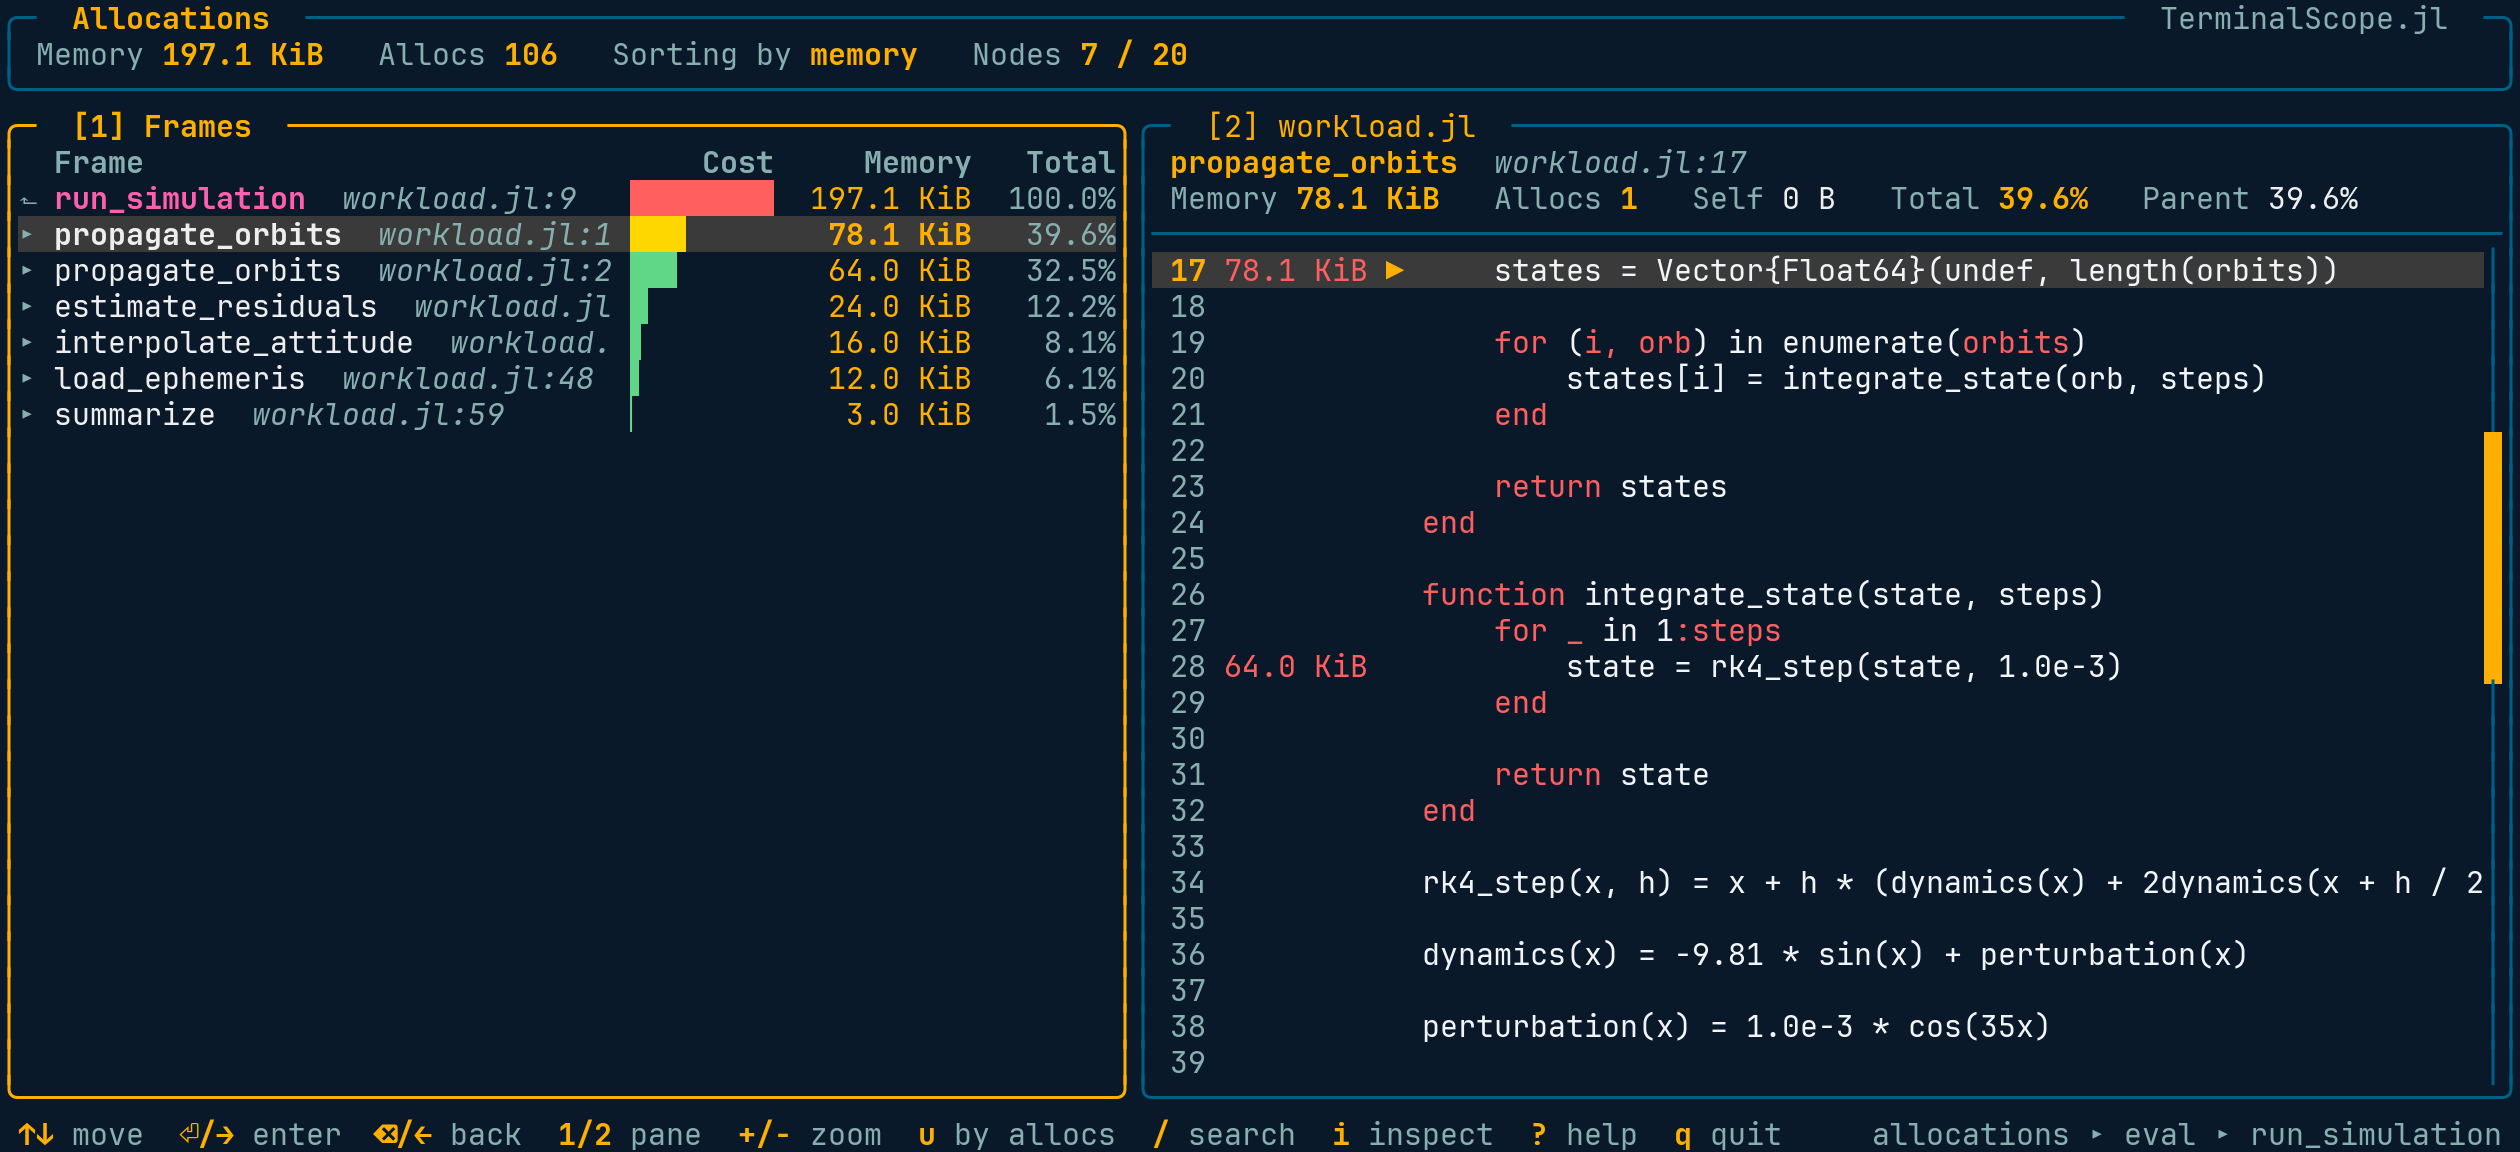
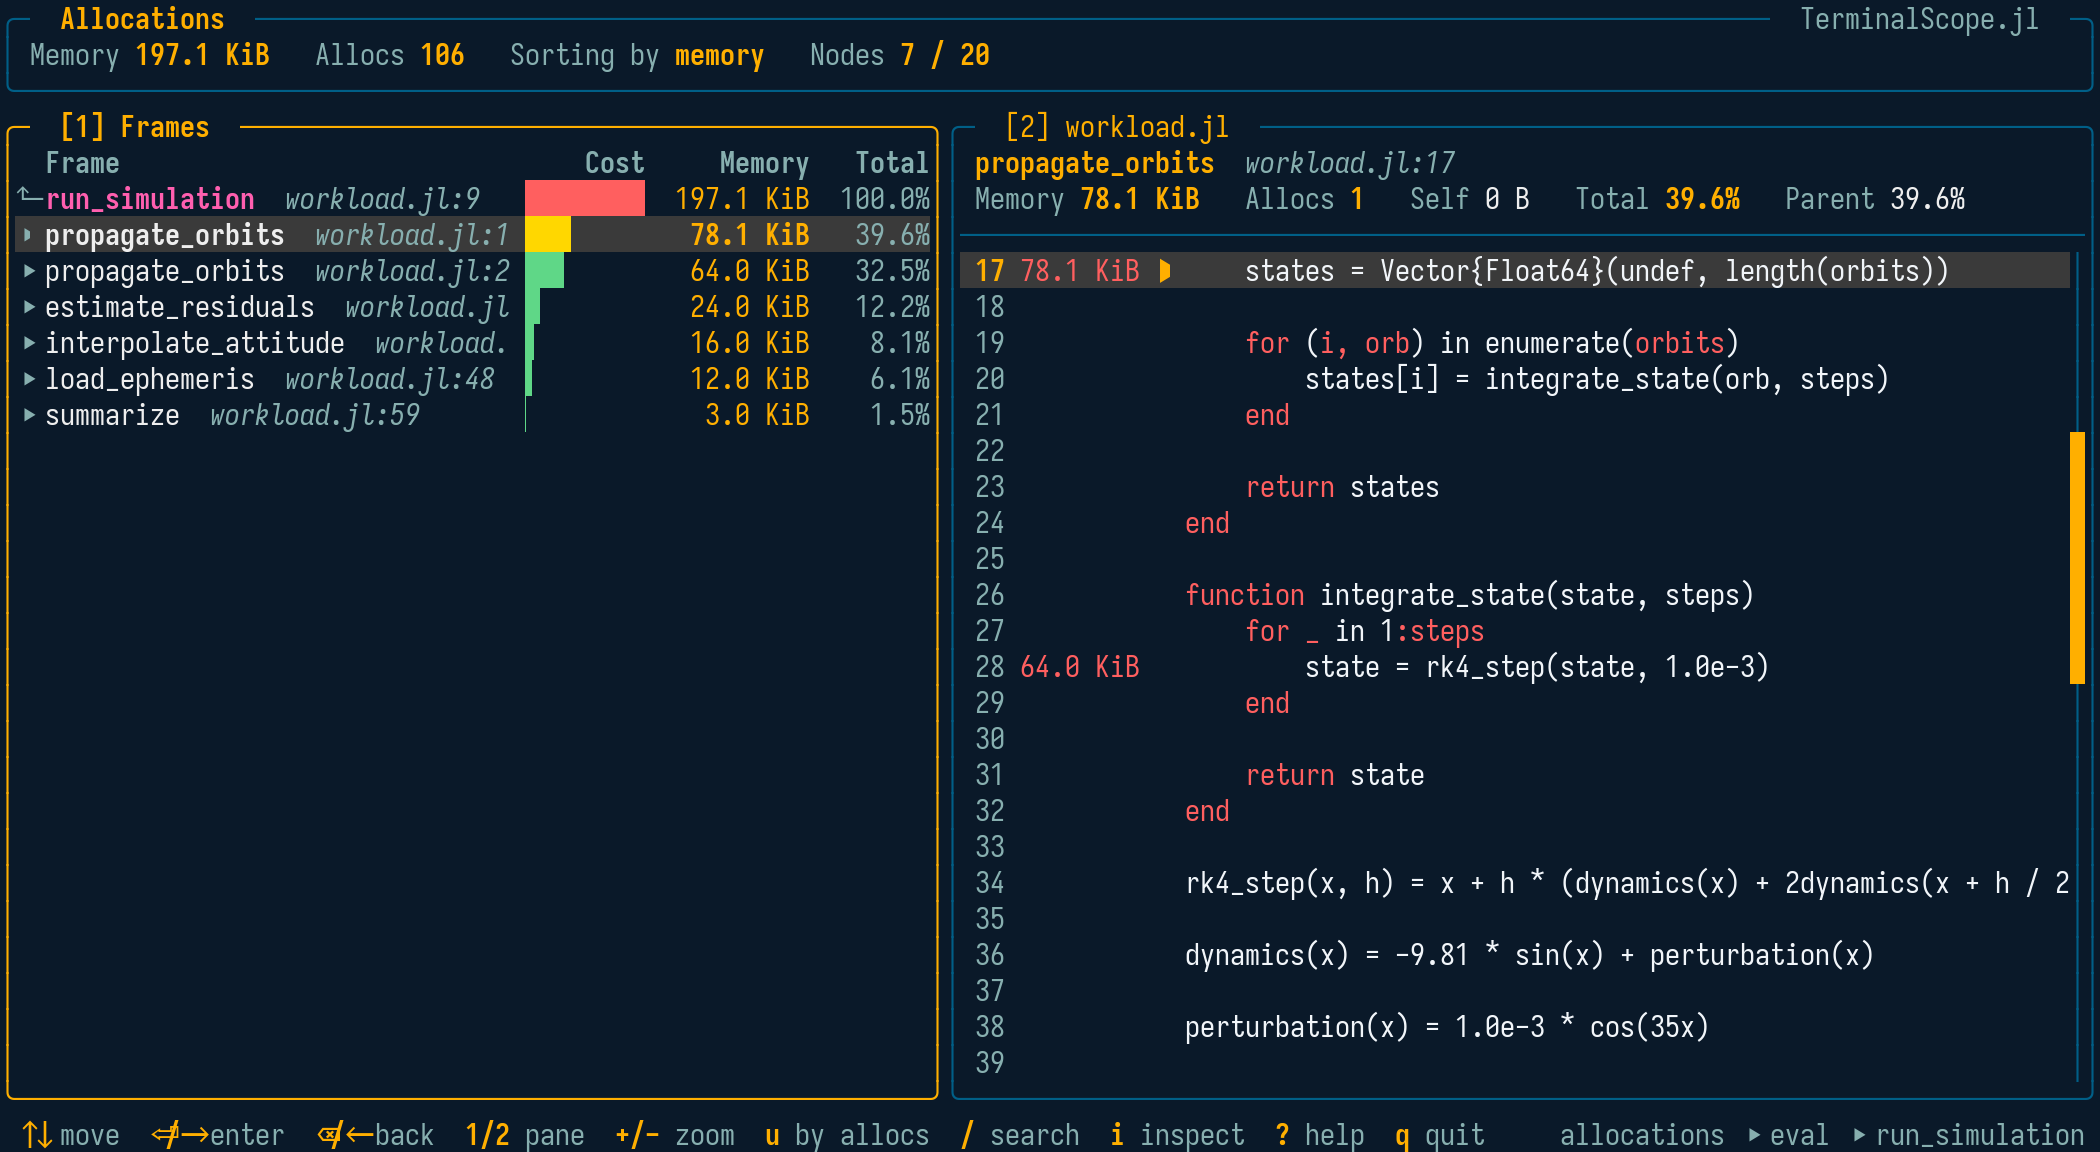
:books: Use Iosevka as the screenshot font
Prefer Iosevka when rasterizing the documentation screenshots. The
default Iosevka distribution is a TrueType super collection whose
first face is the Thin weight, which the glyph cache cannot use, so
the generation script now extracts the Regular, Bold, Italic, and
Bold Italic faces of the default variant with fontTools into a
git-ignored fonts directory on the first run. The candidate list
carries a per-font cell width, since Iosevka advances 0.5 em where
the fallback fonts advance 0.6 em.

diff --git a/docs/screenshots/extract_iosevka.py b/docs/screenshots/extract_iosevka.py
@@ -1,0 +1,40 @@
+## Description #############################################################################
+#
+# Extract the Regular, Bold, Italic, and Bold Italic faces of the default Iosevka
+# variant from a TrueType collection, so the screenshot rasterizer can load them:
+#
+#     python3 extract_iosevka.py <Iosevka.ttc> <output directory>
+#
+# Requires fontTools (https://github.com/fonttools/fonttools).
+#
+############################################################################################
+
+import os
+import sys
+
+from fontTools.ttLib import TTCollection
+
+src, out_dir = sys.argv[1], sys.argv[2]
+
+wanted = {
+    "Iosevka": "Iosevka-Regular.ttf",
+    "Iosevka Bold": "Iosevka-Bold.ttf",
+    "Iosevka Italic": "Iosevka-Italic.ttf",
+    "Iosevka Bold Italic": "Iosevka-BoldItalic.ttf",
+}
+
+collection = TTCollection(src, lazy=True)
+
+for font in collection.fonts:
+    full_name = font["name"].getDebugName(4)
+    target = wanted.pop(full_name, None)
+
+    if target is not None:
+        font.save(os.path.join(out_dir, target))
+        print("extracted", target)
+
+    if not wanted:
+        break
+
+if wanted:
+    sys.exit("missing faces: " + ", ".join(sorted(wanted)))
